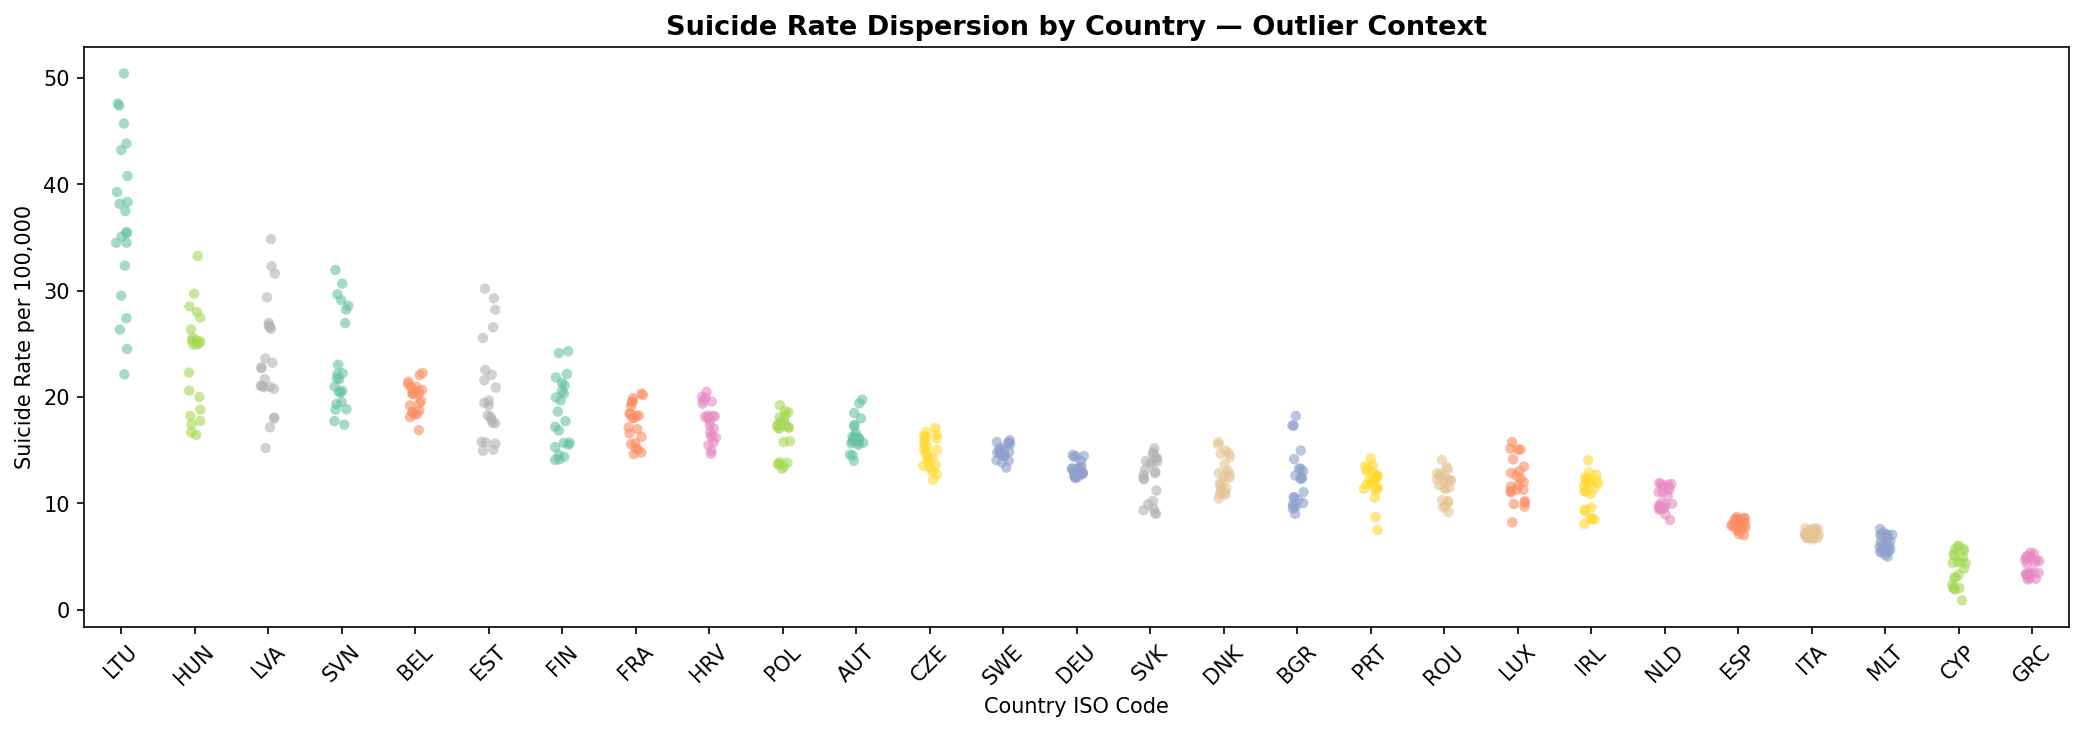
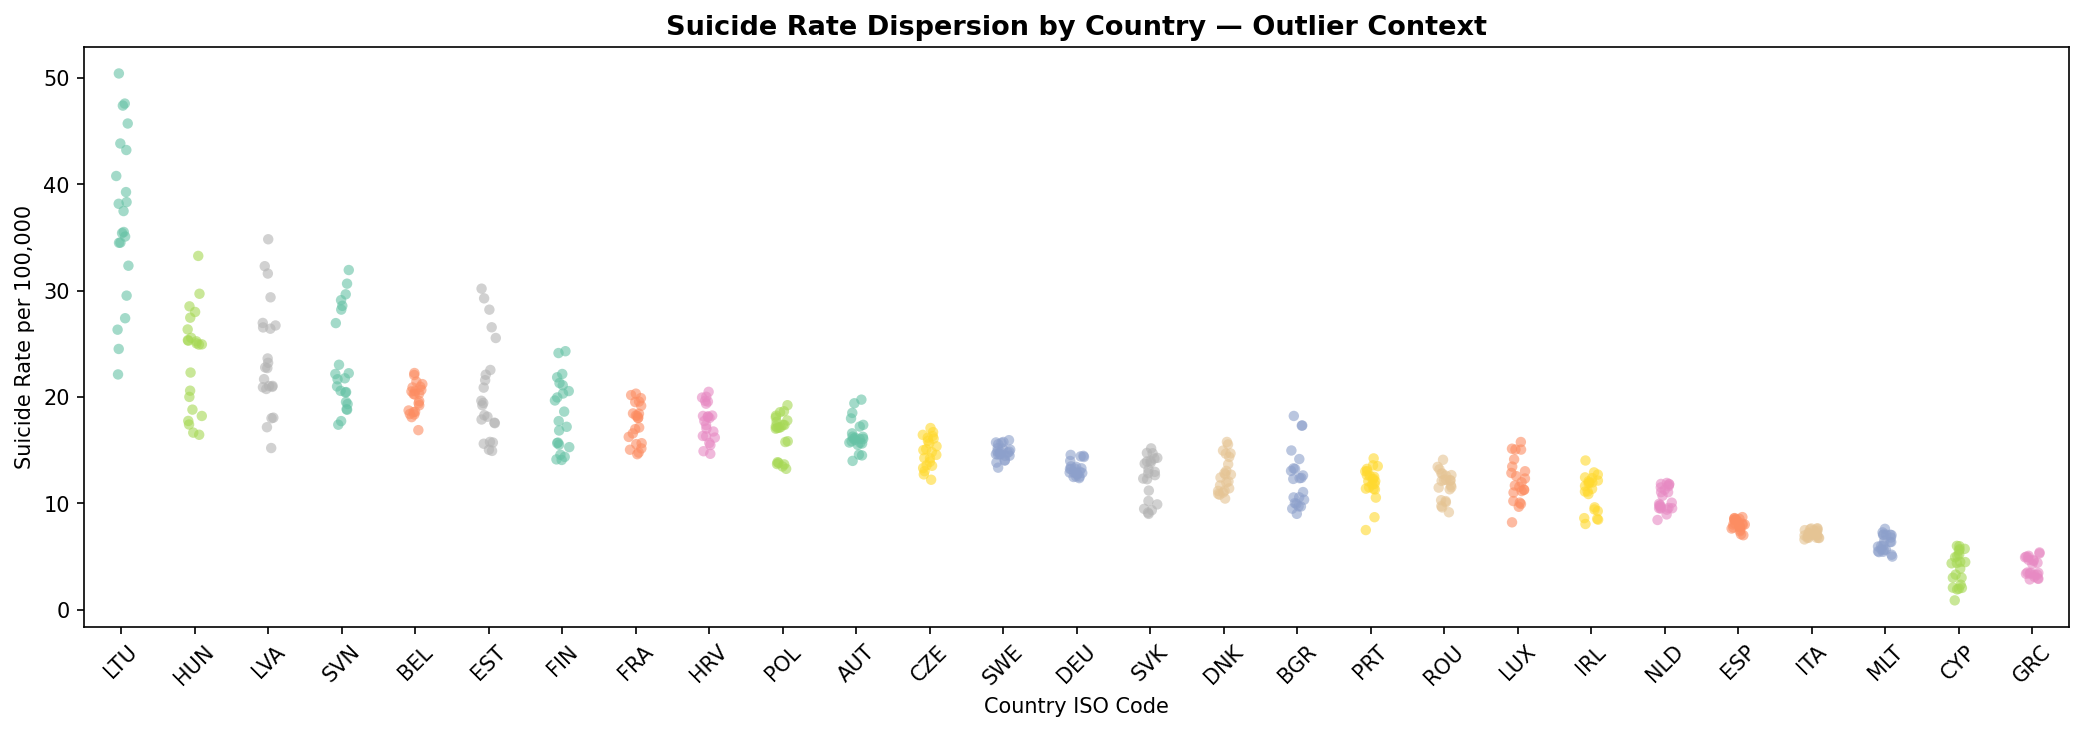
Last commit

diff --git a/src/export.py b/src/export.py
@@ -14,6 +14,7 @@ itself doesn't.
 
 import numpy as np
 import pandas as pd
+from typing import cast
 from openpyxl import Workbook
 from openpyxl.styles import Font, PatternFill, Alignment
 from openpyxl.utils import get_column_letter
@@ -86,9 +87,13 @@ def build_predictions_table(
     pd.DataFrame
         Columns: [id_col, "Country", "Year", "Predicted_Rate", "Model", "Region"].
     """
-    cat = catboost_predictions[[id_col, "Country", "Year", "Predicted suicide rate"]].copy()
+    cat = cast(
+        pd.DataFrame, catboost_predictions[[id_col, "Country", "Year", "Predicted suicide rate"]]
+    ).copy()
     cat["Model"] = "CatBoost"
-    sar = sarimax_predictions[[id_col, "Country", "Year", "Predicted suicide rate"]].copy()
+    sar = cast(
+        pd.DataFrame, sarimax_predictions[[id_col, "Country", "Year", "Predicted suicide rate"]]
+    ).copy()
     sar["Model"] = "SARIMAX +1 exog"
 
     combined = pd.concat([cat, sar], ignore_index=True)
@@ -134,16 +139,16 @@ def build_trend_with_predictions_table(
         model in `predictions_table`, each starting with a duplicated
         connector row.
     """
-    actual = df_history[[id_col, "Country", "Year", target]].rename(
-        columns={target: "Rate"}
-    )
+    actual = cast(
+        pd.DataFrame, df_history[[id_col, "Country", "Year", target]]
+    ).rename(columns={target: "Rate"})
     actual["Series"] = "Actual"
 
     connector_frames = [actual]
     for model_name, model_preds in predictions_table.groupby("Model"):
         for code, country_preds in model_preds.groupby(id_col):
             country_name = country_preds["Country"].iloc[0]
-            hist_country = actual[actual[id_col] == code].sort_values("Year")
+            hist_country = actual.loc[actual[id_col] == code].sort_values("Year")
             if hist_country.empty:
                 continue
             last_year = hist_country["Year"].iloc[-1]
@@ -158,9 +163,10 @@ def build_trend_with_predictions_table(
                     "Series": [model_name],
                 }
             )
-            forecast_rows = country_preds.sort_values("Year")[
-                [id_col, "Country", "Year", "Predicted_Rate"]
-            ].rename(columns={"Predicted_Rate": "Rate"})
+            forecast_rows = cast(
+                pd.DataFrame,
+                country_preds.sort_values("Year")[[id_col, "Country", "Year", "Predicted_Rate"]],
+            ).rename(columns={"Predicted_Rate": "Rate"})
             forecast_rows["Series"] = model_name
 
             connector_frames.append(pd.concat([connector_row, forecast_rows], ignore_index=True))
@@ -217,7 +223,10 @@ def build_model_comparison_table(result_tables: dict) -> pd.DataFrame:
         t["Split"] = split
         frames.append(t)
     combined = pd.concat(frames, ignore_index=True)
-    return combined[["Model", "Option", "Split", "CV RMSE", "RMSE", "MAE", "R²", "Time (s)"]]
+    return cast(
+        pd.DataFrame,
+        combined[["Model", "Option", "Split", "CV RMSE", "RMSE", "MAE", "R²", "Time (s)"]],
+    )
 
 
 def build_cluster_lookup_table(
@@ -256,7 +265,12 @@ def build_cluster_lookup_table(
             "PCA_Component_2": pca_coords[:, 1],
         }
     )
-    table["Region"] = table["Code"].map(region_map)
+    # .map(region_map) is standard, documented pandas usage (Series.map
+    # accepts a dict for value substitution) — the installed stub's
+    # overloads for .map() only cover a callable, not a Mapping, so this
+    # is a stub gap, not a real type error (same as 06_visualize_predictions.py's
+    # EU_REGIONS mapping).
+    table["Region"] = table["Code"].map(region_map)  # type: ignore[arg-type]
     return table
 
 
@@ -282,6 +296,11 @@ def write_powerbi_workbook(tables: dict, path: str) -> str:
         `path`, unchanged — returned for convenient chaining/logging.
     """
     wb = Workbook()
+    # A freshly-created Workbook() always has exactly one default sheet,
+    # so .active is never actually None here — the assert gives pyright
+    # the same guarantee it can't infer from the (correctly) Optional
+    # stub type on its own, with a real runtime check behind it.
+    assert wb.active is not None
     wb.remove(wb.active)
 
     header_font = Font(name="Arial", bold=True, color="FFFFFF", size=10)

diff --git a/prod/run_pipeline.py b/prod/run_pipeline.py
@@ -44,6 +44,24 @@ DEFAULT_ORDER = ["01", "02", "03", "04", "05", "Pred", "06", "07"]
 
 
 def run_stage(stage_key: str):
+    """
+    Runs one pipeline stage as a fresh subprocess (`python <script>`,
+    inheriting stdout/stderr so its own logging shows inline) and exits
+    the whole orchestrator immediately if that stage fails — nothing
+    downstream is attempted on top of a stage that didn't succeed.
+
+    Parameters
+    ----------
+    stage_key : str
+        A key into STAGES, e.g. "01", "Pred", "07".
+
+    Raises
+    ------
+    SystemExit
+        If the stage's subprocess returns a non-zero exit code — this
+        function calls sys.exit() with that same code rather than
+        raising, so run_pipeline.py's own exit code reflects it too.
+    """
     script_path = STAGES[stage_key]
     logger.info("=" * 60)
     logger.info("Stage %s — %s", stage_key, script_path.name)
@@ -60,6 +78,17 @@ def run_stage(stage_key: str):
 
 
 def run(stage_keys):
+    """
+    Runs every stage in `stage_keys`, in order, via `run_stage()` —
+    the orchestrator's own entry point, called either with the full
+    DEFAULT_ORDER or a single stage from `--only`.
+
+    Parameters
+    ----------
+    stage_keys : list[str]
+        Stage keys to run in sequence, e.g. DEFAULT_ORDER or a
+        single-element list for `--only`.
+    """
     for key in stage_keys:
         run_stage(key)
     logger.info("Pipeline complete. Production model available in outputs/models/.")

diff --git a/prod/predict.py b/prod/predict.py
@@ -86,6 +86,27 @@ def predict(input_df: pd.DataFrame) -> pd.DataFrame:
 
 
 def run(input_path: Path, output_path: Path):
+    """
+    Reads `input_path`, scores it with `predict()`, and writes the
+    result to `output_path`.
+
+    Parameters
+    ----------
+    input_path : Path
+        .parquet or .csv file with the same predictor columns as
+        `data/processed/df_development.parquet` (target and ID columns
+        optional — see `predict()`).
+    output_path : Path
+        Where to write the scored output — .csv by extension,
+        .parquet otherwise. Parent directories are created if needed.
+
+    Returns
+    -------
+    pd.DataFrame
+        The same DataFrame written to `output_path`, for convenient
+        reuse if `run()` is called from another script rather than the
+        command line.
+    """
     logger.info("Loading input data: %s", input_path)
     input_df = (
         pd.read_parquet(input_path)

diff --git a/src/data_loading.py b/src/data_loading.py
@@ -9,6 +9,7 @@ import pandas as pd
 import pycountry
 import requests
 import urllib3
+from typing import cast
 from requests.adapters import HTTPAdapter
 from urllib3.util.retry import Retry
 
@@ -104,7 +105,7 @@ def load_ihme_data(csv_path: str, min_year: int = 2000) -> pd.DataFrame:
         columns={"location_name": "Country", "year": "Year"}
     )
     df_base = df_base.drop(columns=["All causes"])
-    df_base = df_base[df_base["Year"] >= min_year].copy()
+    df_base = df_base.loc[df_base["Year"] >= min_year].copy()
     return df_base
 
 
@@ -187,12 +188,14 @@ def fetch_worldbank_indicators(
         df_wb["Year"] = df_wb["date"].astype(int)
         df_wb[column_name] = df_wb["value"]
 
-        df_final_wb = df_wb[["Country", "Code", "Year", column_name]].dropna()
-        df_final_eu = df_final_wb[df_final_wb["Code"].isin(eu_countries_iso)].copy()
+        df_final_wb = cast(
+            pd.DataFrame, df_wb[["Country", "Code", "Year", column_name]]
+        ).dropna()
+        df_final_eu = df_final_wb.loc[df_final_wb["Code"].isin(eu_countries_iso)].copy()
 
         df_features = pd.merge(
             df_features,
-            df_final_eu[["Code", "Year", column_name]],
+            cast(pd.DataFrame, df_final_eu[["Code", "Year", column_name]]),
             on=["Code", "Year"],
             how="left",
         )
@@ -252,11 +255,13 @@ def fetch_who_suicide_rates(indicator: str = "SDGSUICIDE") -> pd.DataFrame:
         raise RuntimeError("WHO API responded but returned no data for this indicator.")
 
     df_raw = pd.DataFrame(data)
-    df_filtered = df_raw[
+    df_filtered = df_raw.loc[
         (df_raw["Dim1"] == "SEX_BTSX") & (df_raw["Dim2"] == "AGEGROUP_YEARSALL")
     ].copy()
 
-    df_clean = df_filtered[["SpatialDim", "TimeDim", "NumericValue"]].copy()
+    df_clean = cast(
+        pd.DataFrame, df_filtered[["SpatialDim", "TimeDim", "NumericValue"]]
+    ).copy()
     df_clean.columns = ["Code", "Year", "Suicide rate"]
     df_clean = df_clean.sort_values(by=["Code", "Year"])
     return df_clean
@@ -301,8 +306,8 @@ def build_master_dataset(
     )
     df_complete = df_complete.sort_values(by=["Country", "Year"]).reset_index(drop=True)
 
-    df_development = df_complete[df_complete["Year"] <= development_cutoff_year].copy()
-    df_real_world = df_complete[df_complete["Year"] > development_cutoff_year].copy()
+    df_development = df_complete.loc[df_complete["Year"] <= development_cutoff_year].copy()
+    df_real_world = df_complete.loc[df_complete["Year"] > development_cutoff_year].copy()
     return df_development, df_real_world
 
 

diff --git a/prod/06_visualize_predictions.py b/prod/06_visualize_predictions.py
@@ -154,6 +154,25 @@ def _forecast_temporal_model(
 
 
 def run(predictions_path: Path):
+    """
+    Fits SARIMAX + the curated exogenous feature per country to forecast
+    2022-2023 (the temporal model's answer alongside CatBoost's, loaded
+    from `predictions_path`), saves that forecast table, and generates
+    every prediction-comparison figure: single-model trend/by-country
+    plots for CatBoost alone, CatBoost-vs-SARIMAX comparison plots
+    (trend per spotlight country, bar chart per year), and the same
+    comparison aggregated to EU-region level (trend per region, bar
+    chart per year). Nothing is returned — every result is written to
+    outputs/tables/ or outputs/figures/ as it's produced.
+
+    Parameters
+    ----------
+    predictions_path : Path
+        CatBoost predictions file to visualise — predict.py's output
+        (outputs/tables/predictions.parquet by default, via
+        DEFAULT_PREDICTIONS_PATH), or any file with the same columns
+        passed via --predictions.
+    """
     if not predictions_path.exists():
         raise FileNotFoundError(
             f"No predictions file found at {predictions_path}. Run first: python prod/predict.py"

diff --git a/prod/07_export_powerbi.py b/prod/07_export_powerbi.py
@@ -64,6 +64,18 @@ N_CLUSTERS = 4  # mirrors EU_REGIONS' 4 groups — see 04_clustering.py
 
 
 def run():
+    """
+    Builds every table the Power BI dashboard needs and writes them to
+    a single formatted workbook (OUTPUT_PATH). Two tables are computed
+    here — the descriptive K-Means/PCA cluster lookup (re-run rather
+    than loaded, since 04_clustering.py doesn't persist its labels)
+    and SHAP importance for the production CatBoost model — everything
+    else is assembled from tables/artifacts earlier stages already
+    saved (predict.py's and 06_visualize_predictions.py's predictions,
+    03_train.py's result tables, 05_temporal_persistence_check.py's
+    comparison table). Nothing is returned; the workbook is the only
+    output, and its path/sheet count are logged once written.
+    """
     POWERBI_DIR.mkdir(parents=True, exist_ok=True)
 
     logger.info("Loading historical data and predictor list")

diff --git a/src/splits.py b/src/splits.py
@@ -46,9 +46,9 @@ def geographical_split(
     test_countries = countries[train_split:test_split]
     val_countries = countries[test_split:]
 
-    df_train = df[df["Code"].isin(train_countries)].copy()
-    df_test = df[df["Code"].isin(test_countries)].copy()
-    df_val = df[df["Code"].isin(val_countries)].copy()
+    df_train = df.loc[df["Code"].isin(train_countries)].copy()
+    df_test = df.loc[df["Code"].isin(test_countries)].copy()
+    df_val = df.loc[df["Code"].isin(val_countries)].copy()
     return df_train, df_test, df_val, train_countries, test_countries, val_countries
 
 
@@ -87,7 +87,7 @@ def temporal_split(
     test_years = year_range[train_split:test_split]
     val_years = year_range[test_split:]
 
-    df_train = df[df["Year"].isin(train_years)].copy()
-    df_test = df[df["Year"].isin(test_years)].copy()
-    df_val = df[df["Year"].isin(val_years)].copy()
+    df_train = df.loc[df["Year"].isin(train_years)].copy()
+    df_test = df.loc[df["Year"].isin(test_years)].copy()
+    df_val = df.loc[df["Year"].isin(val_years)].copy()
     return df_train, df_test, df_val, train_years, test_years, val_years

diff --git a/src/timeseries_models.py b/src/timeseries_models.py
@@ -66,7 +66,7 @@ def train_evaluate_sarimax(
     exog_features: list[str] | None = None,
     id_col: str = "Code",
     year_col: str = "Year",
-    order: tuple = (1, 1, 0),
+    order: tuple = (1, 1, 1),
 ):
     """
     Fits one SARIMAX per country on df_train's years only, forecasts
@@ -92,7 +92,7 @@ def train_evaluate_sarimax(
         long list here is a real overfitting risk at this sample size.
     id_col : str, default "Code"
     year_col : str, default "Year"
-    order : tuple, default (1, 1, 0)
+    order : tuple, default (1, 1, 1)
         Non-seasonal (p, d, q) — no seasonal term, since annual data
         has no sub-annual seasonality to capture, and kept low-order
         given how few points each country provides.
@@ -193,7 +193,7 @@ def fit_sarimax_models(
     exog_features: list[str] | None = None,
     id_col: str = "Code",
     year_col: str = "Year",
-    order: tuple = (1, 1, 0),
+    order: tuple = (1, 1, 1),
 ) -> dict:
     """
     Fits one SARIMAX per country and returns the fitted results objects,
@@ -212,7 +212,7 @@ def fit_sarimax_models(
         None (univariate).
     id_col : str, default "Code"
     year_col : str, default "Year"
-    order : tuple, default (1, 1, 0)
+    order : tuple, default (1, 1, 1)
 
     Returns
     -------

diff --git a/prod/02_eda.py b/prod/02_eda.py
@@ -18,6 +18,7 @@ run first — reads data/processed/df_development.parquet.
 import logging
 import sys
 from pathlib import Path
+from typing import cast
 
 import matplotlib
 
@@ -99,7 +100,7 @@ def run() -> pd.DataFrame:
 
     # --- Trend by region ---
     logger.info("Generating region-level trend plot")
-    df_development["Region"] = df_development["Code"].map(EU_REGIONS)
+    df_development["Region"] = df_development["Code"].map(EU_REGIONS)  # type: ignore[arg-type]
     fig = plot_suicide_trend_by_region(df_development)
     save_figure(
         fig,
@@ -129,7 +130,7 @@ def run() -> pd.DataFrame:
         figures_dir=str(FIGURES_DIR),
     )
     skew_summary = (
-        df_development[predictor_features].skew().sort_values(ascending=False).round(2)
+        cast(pd.DataFrame, df_development[predictor_features]).skew().sort_values(ascending=False).round(2)
     )
     logger.info("Skewness summary:\n%s", skew_summary)
 
@@ -176,7 +177,7 @@ def run() -> pd.DataFrame:
     if REAL_WORLD_PATH.exists():
         logger.info("Applying the same cleaning to df_real_world: %s", REAL_WORLD_PATH)
         df_real_world = pd.read_parquet(REAL_WORLD_PATH)
-        df_real_world["Region"] = df_real_world["Code"].map(EU_REGIONS)
+        df_real_world["Region"] = df_real_world["Code"].map(EU_REGIONS)  # type: ignore[arg-type]
         df_real_world = df_real_world.drop(
             columns=["Eating disorders"], errors="ignore"
         )

diff --git a/prod/04_clustering.py b/prod/04_clustering.py
@@ -90,7 +90,7 @@ def run():
         columns=feature_cols,
         index=country_df.index,
     )
-    region_labels = country_df["Code"].map(EU_REGIONS)
+    region_labels = country_df["Code"].map(EU_REGIONS)  # type: ignore[arg-type]
     logger.info(
         "Aggregated to %d countries, %d features",
         country_df.shape[0],
@@ -142,10 +142,10 @@ def run():
     )
 
     # --- Temporal evolution: a priori regions vs algorithm clusters ---
-    df_development["Region"] = df_development["Code"].map(EU_REGIONS)
+    df_development["Region"] = df_development["Code"].map(EU_REGIONS)  # type: ignore[arg-type]
     cluster_map = dict(zip(country_df["Code"], labels_kmeans))
     df_development["Cluster"] = (
-        df_development["Code"].map(cluster_map).apply(lambda c: f"Cluster {c}")
+        df_development["Code"].map(cluster_map).apply(lambda c: f"Cluster {c}")  # type: ignore[arg-type]
     )
 
     fig = plot_suicide_trend_by_group(

diff --git a/README.md b/README.md
@@ -51,7 +51,6 @@ Master's thesis (TFM, MSc Data Science and Artificial Intelligence) project: pre
 │   ├── explainability.py          # SHAP-based model interpretation
 │   ├── persistence.py             # save_artifact() / load_artifact() (joblib)
 │   └── export.py                  # Builds the Power BI dashboard's tables + writes the .xlsx
-
 ├── requirements.txt
 └── TODO.md
 ```